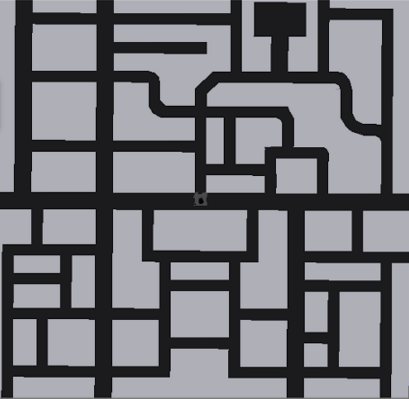
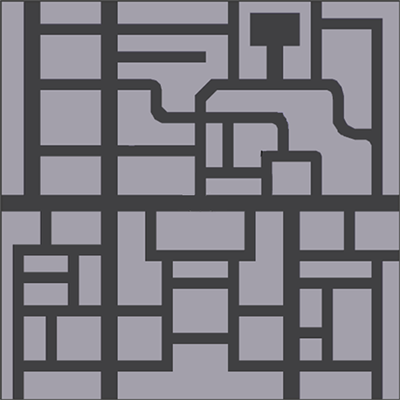
[Issue #124] Errors fixed: map is twisted, center of map and reference system

diff --git a/src/global_navigation/gui/ui_gui.py b/src/global_navigation/gui/ui_gui.py
@@ -17,12 +17,12 @@ class Ui_MainWindow(object):
         self.centralwidget = QtWidgets.QWidget(MainWindow)
         self.centralwidget.setObjectName("centralwidget")
         self.verticalLayoutWidget = QtWidgets.QWidget(self.centralwidget)
-        self.verticalLayoutWidget.setGeometry(QtCore.QRect(20, 40, 401, 391))
+        self.verticalLayoutWidget.setGeometry(QtCore.QRect(20, 40, 410, 410))
         self.verticalLayoutWidget.setObjectName("verticalLayoutWidget")
         self.mapLayout = QtWidgets.QVBoxLayout(self.verticalLayoutWidget)
         self.mapLayout.setObjectName("mapLayout")
         self.verticalLayoutWidget_2 = QtWidgets.QWidget(self.centralwidget)
-        self.verticalLayoutWidget_2.setGeometry(QtCore.QRect(440, 40, 371, 391))
+        self.verticalLayoutWidget_2.setGeometry(QtCore.QRect(440, 40, 400, 400))
         self.verticalLayoutWidget_2.setObjectName("verticalLayoutWidget_2")
         self.tlLayout = QtWidgets.QVBoxLayout(self.verticalLayoutWidget_2)
         self.tlLayout.setObjectName("tlLayout")
@@ -42,38 +42,38 @@ class Ui_MainWindow(object):
         self.stopButton.setIcon(icon1)
         self.stopButton.setObjectName("stopButton")
         self.destinyLabel = QtWidgets.QLabel(self.centralwidget)
-        self.destinyLabel.setGeometry(QtCore.QRect(30, 430, 61, 21))
+        self.destinyLabel.setGeometry(QtCore.QRect(30, 440, 61, 21))
         self.destinyLabel.setObjectName("destinyLabel")
         self.XLabel = QtWidgets.QLabel(self.centralwidget)
-        self.XLabel.setGeometry(QtCore.QRect(100, 440, 21, 21))
+        self.XLabel.setGeometry(QtCore.QRect(100, 450, 21, 21))
         self.XLabel.setObjectName("XLabel")
         self.YLabel = QtWidgets.QLabel(self.centralwidget)
-        self.YLabel.setGeometry(QtCore.QRect(220, 440, 21, 21))
+        self.YLabel.setGeometry(QtCore.QRect(220, 450, 21, 21))
         self.YLabel.setObjectName("YLabel")
         self.positionLabel = QtWidgets.QLabel(self.centralwidget)
-        self.positionLabel.setGeometry(QtCore.QRect(440, 430, 61, 20))
+        self.positionLabel.setGeometry(QtCore.QRect(440, 440, 61, 20))
         self.positionLabel.setObjectName("positionLabel")
         self.VLabel = QtWidgets.QLabel(self.centralwidget)
-        self.VLabel.setGeometry(QtCore.QRect(530, 440, 21, 21))
+        self.VLabel.setGeometry(QtCore.QRect(530, 450, 21, 21))
         self.VLabel.setObjectName("VLabel")
         self.XValue = QtWidgets.QLabel(self.centralwidget)
-        self.XValue.setGeometry(QtCore.QRect(130, 440, 41, 21))
+        self.XValue.setGeometry(QtCore.QRect(130, 450, 41, 21))
         self.XValue.setAlignment(QtCore.Qt.AlignRight|QtCore.Qt.AlignTrailing|QtCore.Qt.AlignVCenter)
         self.XValue.setObjectName("XValue")
         self.VValue = QtWidgets.QLabel(self.centralwidget)
-        self.VValue.setGeometry(QtCore.QRect(560, 440, 41, 21))
+        self.VValue.setGeometry(QtCore.QRect(560, 450, 41, 21))
         self.VValue.setAlignment(QtCore.Qt.AlignRight|QtCore.Qt.AlignTrailing|QtCore.Qt.AlignVCenter)
         self.VValue.setObjectName("VValue")
         self.YValue = QtWidgets.QLabel(self.centralwidget)
-        self.YValue.setGeometry(QtCore.QRect(260, 440, 41, 21))
+        self.YValue.setGeometry(QtCore.QRect(260, 450, 41, 21))
         self.YValue.setAlignment(QtCore.Qt.AlignRight|QtCore.Qt.AlignTrailing|QtCore.Qt.AlignVCenter)
         self.YValue.setObjectName("YValue")
         self.WValue = QtWidgets.QLabel(self.centralwidget)
-        self.WValue.setGeometry(QtCore.QRect(700, 440, 41, 21))
+        self.WValue.setGeometry(QtCore.QRect(700, 450, 41, 21))
         self.WValue.setAlignment(QtCore.Qt.AlignRight|QtCore.Qt.AlignTrailing|QtCore.Qt.AlignVCenter)
         self.WValue.setObjectName("WValue")
         self.WLabel = QtWidgets.QLabel(self.centralwidget)
-        self.WLabel.setGeometry(QtCore.QRect(660, 440, 21, 21))
+        self.WLabel.setGeometry(QtCore.QRect(660, 450, 21, 21))
         self.WLabel.setObjectName("WLabel")
         self.mapLabel = QtWidgets.QLabel(self.centralwidget)
         self.mapLabel.setGeometry(QtCore.QRect(20, 10, 341, 17))
@@ -81,12 +81,6 @@ class Ui_MainWindow(object):
         self.mapLabel_2 = QtWidgets.QLabel(self.centralwidget)
         self.mapLabel_2.setGeometry(QtCore.QRect(440, 10, 121, 17))
         self.mapLabel_2.setObjectName("mapLabel_2")
-        self.verticalLayoutWidget_3 = QtWidgets.QWidget(self.centralwidget)
-        self.verticalLayoutWidget_3.setGeometry(QtCore.QRect(759, 459, 71, 71))
-        self.verticalLayoutWidget_3.setObjectName("verticalLayoutWidget_3")
-        self.logoLayout = QtWidgets.QVBoxLayout(self.verticalLayoutWidget_3)
-        self.logoLayout.setSpacing(0)
-        self.logoLayout.setObjectName("logoLayout")
         MainWindow.setCentralWidget(self.centralwidget)
 
         self.retranslateUi(MainWindow)
@@ -94,7 +88,7 @@ class Ui_MainWindow(object):
 
     def retranslateUi(self, MainWindow):
         _translate = QtCore.QCoreApplication.translate
-        MainWindow.setWindowTitle(_translate("MainWindow", "Global Navigation"))
+        MainWindow.setWindowTitle(_translate("MainWindow", "Introrob py"))
         self.getPathButton.setText(_translate("MainWindow", "Generate Path"))
         self.playButton.setText(_translate("MainWindow", "GO!"))
         self.stopButton.setText(_translate("MainWindow", "Stop"))

diff --git a/src/global_navigation/sensors/grid.py b/src/global_navigation/sensors/grid.py
@@ -2,6 +2,7 @@ import threading
 import math
 import numpy as np
 import cv2
+from math import pi as pi
 
 class Grid:
 	def __init__(self, frame):
@@ -29,56 +30,53 @@ class Grid:
 		print("GX:", gridX, "GY:", gridY)
 		self.lock.acquire()
 		self.pos = (gridX, gridY)
-		self.initAngle = angle * 100
-		self.angle = angle * 100
+		self.initAngle = angle * 180 / math.pi
+		self.angle = angle * 180 / math.pi
 		self.lock.release()
+		
+	def RTx(self, angle, tx, ty, tz):
+		RT = np.matrix([[1, 0, 0, tx], [0, math.cos(angle), -math.sin(angle), ty], [0, math.sin(angle), math.cos(angle), tz], [0,0,0,1]])
+		return RT
+        
+	def RTy(self, angle, tx, ty, tz):
+		RT = np.matrix([[math.cos(angle), 0, math.sin(angle), tx], [0, 1, 0, ty], [-math.sin(angle), 0, math.cos(angle), tz], [0,0,0,1]])
+		return RT
+    
+	def RTz(self, angle, tx, ty, tz):
+		RT = np.matrix([[math.cos(angle), -math.sin(angle), 0, tx], [math.sin(angle), math.cos(angle),0, ty], [0, 0, 1, tz], [0,0,0,1]])
+		return RT
 
+	def RTWorldGrid(self):
+		RTx = self.RTx(pi, 0, 0, 0)
+		RTz = self.RTz(-pi/2, self.gWidth/2, -self.gHeight/2, 0)
+		return RTx*RTz
+
+	def RTGridWorld(self):
+		RTx = self.RTx(-pi, 0, 0, 0)
+		RTz = self.RTz(pi/2, self.wWidth/2, self.wHeight/2, 0)
+		return RTz*RTx
 
 	def worldToGrid(self, worldX, worldY):
-		if self.mapAngle >= 0 and self.mapAngle < 90:
-			relativeAngle = self.mapAngle * math.pi / 180
-			gridX = int((self.gWidth * math.cos(relativeAngle) / self.wWidth) * (worldX - self.origX))
-			gridY = int((-self.gHeight * math.cos(relativeAngle) / self.wHeight) * (worldY - self.origY))
-
-		elif self.mapAngle >= 90 and self.mapAngle < 180:
-			relativeAngle = (self.mapAngle - 90) * math.pi / 180
-			gridX = int((self.gHeight * math.cos(relativeAngle) / self.wHeight) * (worldY - self.origX))
-			gridY = int((self.gWidth * math.cos(relativeAngle) / self.wWidth) * (worldX - self.origY))
-
-		elif self.mapAngle >= 180 and self.mapAngle < 270:
-			relativeAngle = (self.mapAngle - 180) * math.pi / 180
-			gridX = int((-self.gWidth * math.cos(relativeAngle) / self.wWidth) * (worldX - self.origX))
-			gridY = int((self.gHeight * math.cos(relativeAngle) / self.wHeight) * (worldY - self.origY))
-
-		elif self.mapAngle >= 270 and self.mapAngle < 360:
-			relativeAngle = (self.mapAngle - 270) * math.pi / 180
-			gridX = int((-self.gHeight * math.cos(relativeAngle) / self.wHeight) * (worldY - self.origX))
-			gridY = int((-self.gWidth * math.cos(relativeAngle) / self.wWidth) * (worldX - self.origY))
-
+		# self.gWidth/self.wWidth is the scale
+		worldX = worldX * self.gWidth/self.wWidth
+		worldY = worldY * self.gHeight/self.wHeight
+		orig_poses = np.matrix([[worldX], [worldY], [0], [1]])
+		final_poses = self.RTWorldGrid() * orig_poses
+        
+		gridX = int(final_poses.flat[0])
+		gridY = int(final_poses.flat[1])
 		return (gridX, gridY)
 
 
 	def gridToWorld(self, gridX, gridY):
-		if self.mapAngle >= 0 and self.mapAngle < 90:
-			relativeAngle = self.mapAngle * math.pi / 180
-			worldX = (self.wWidth / self.gWidth) * gridX * math.cos(relativeAngle) + self.origX
-			worldY = -(self.wHeight / self.gHeight) * gridY * math.cos(relativeAngle) + self.origY
-
-		elif self.mapAngle >= 90 and self.mapAngle < 180:
-			relativeAngle = (self.mapAngle - 90) * math.pi / 180
-			worldX = (self.wHeight / self.gHeight) * gridY * math.cos(relativeAngle) + self.origX
-			worldY = (self.wWidth / self.gWidth) * gridX * math.cos(relativeAngle) + self.origY
-
-		elif self.mapAngle >= 180 and self.mapAngle < 270:
-			relativeAngle = (self.mapAngle - 180) * math.pi / 180
-			worldX = -(self.wWidth / self.gWidth) * gridX * math.cos(relativeAngle) + self.origX
-			worldY = (self.wHeight / self.gHeight) * gridY * math.cos(relativeAngle) + self.origY
-
-		elif self.mapAngle >= 270 < 360:
-			relativeAngle = (self.mapAngle - 270) * math.pi / 180
-			worldX = -(self.wHeight / self.gHeight) * gridY * math.cos(relativeAngle) + self.origX
-			worldY = -(self.wWidth / self.gWidth) * gridX * math.cos(relativeAngle) + self.origY
-
+		# self.wWidth/self.gWidth is the scale
+		gridX = gridX * self.wWidth/self.gWidth
+		gridY = gridY * self.wHeight/self.gHeight
+		orig_poses = np.matrix([[gridX], [gridY], [0], [-1]])
+		final_poses = self.RTGridWorld() * orig_poses
+        
+		worldX = final_poses.flat[0]
+		worldY = final_poses.flat[1]
 		return (worldX, worldY)
 
 
@@ -86,7 +84,8 @@ class Grid:
 		(gridX, gridY) = self.worldToGrid(px, py)	
 		self.lock.acquire()
 		self.pos = (gridX, gridY)
-		self.angle = angle * 100
+		# Convert to degrees
+		self.angle = angle * 180 / math.pi
 		self.lock.release()
 
 	def getAngle(self):
@@ -175,3 +174,4 @@ class Grid:
 			 nCopy = self.grid
 		cv2.imshow("Grid Field", nCopy)
 		self.lock.release()
+		

diff --git a/src/global_navigation/gui/mapWidget.py b/src/global_navigation/gui/mapWidget.py
@@ -6,6 +6,7 @@ import sys, math
 import threading
 from PyQt5 import QtGui, QtCore
 from PyQt5.QtWidgets import QWidget, QLabel
+from PyQt5.QtCore import QPointF
 import cv2
 
 class Map(QWidget):
@@ -91,16 +92,6 @@ class Map(QWidget):
 
 
     def paintPosition(self, x, y, angle, img, painter):
-        #Compensating the position
-
-        if self.mapAngle >= 0 and self.mapAngle < 90:
-            x = x + 5
-        elif self.mapAngle >= 90 and self.mapAngle < 180:
-            x = x - 5
-            y = y + 3
-        elif self.mapAngle >= 90 and self.mapAngle < 180:
-            y = y + 5
-
         triangle = QtGui.QPolygon()
         triangle.append(QtCore.QPoint(x-4, y-4))
         triangle.append(QtCore.QPoint(x+4, y-4))
